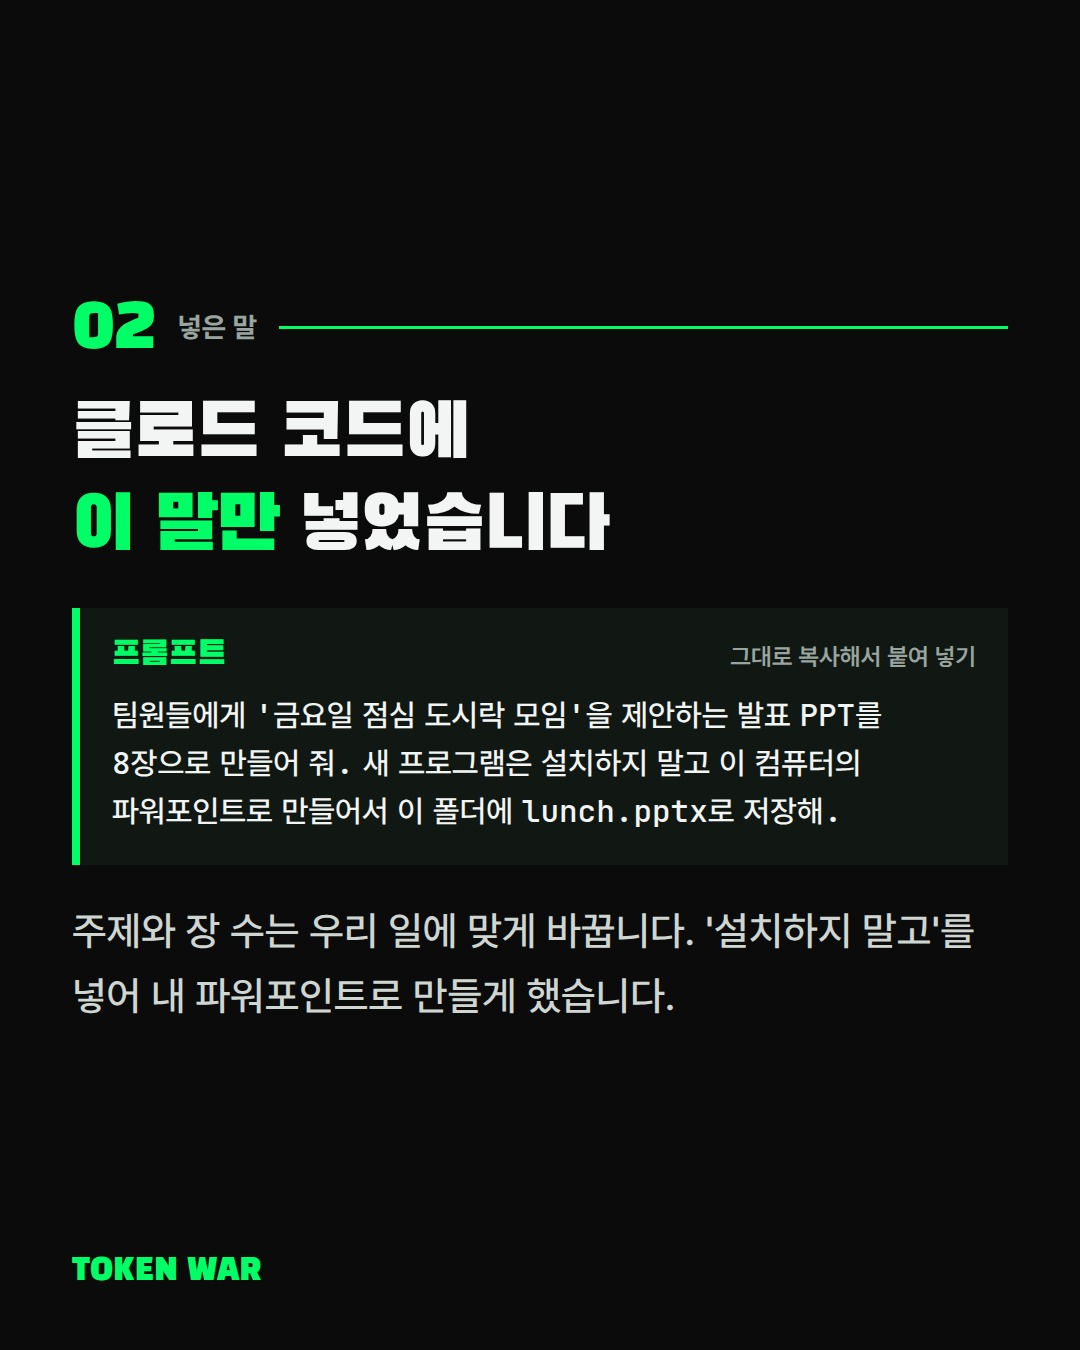
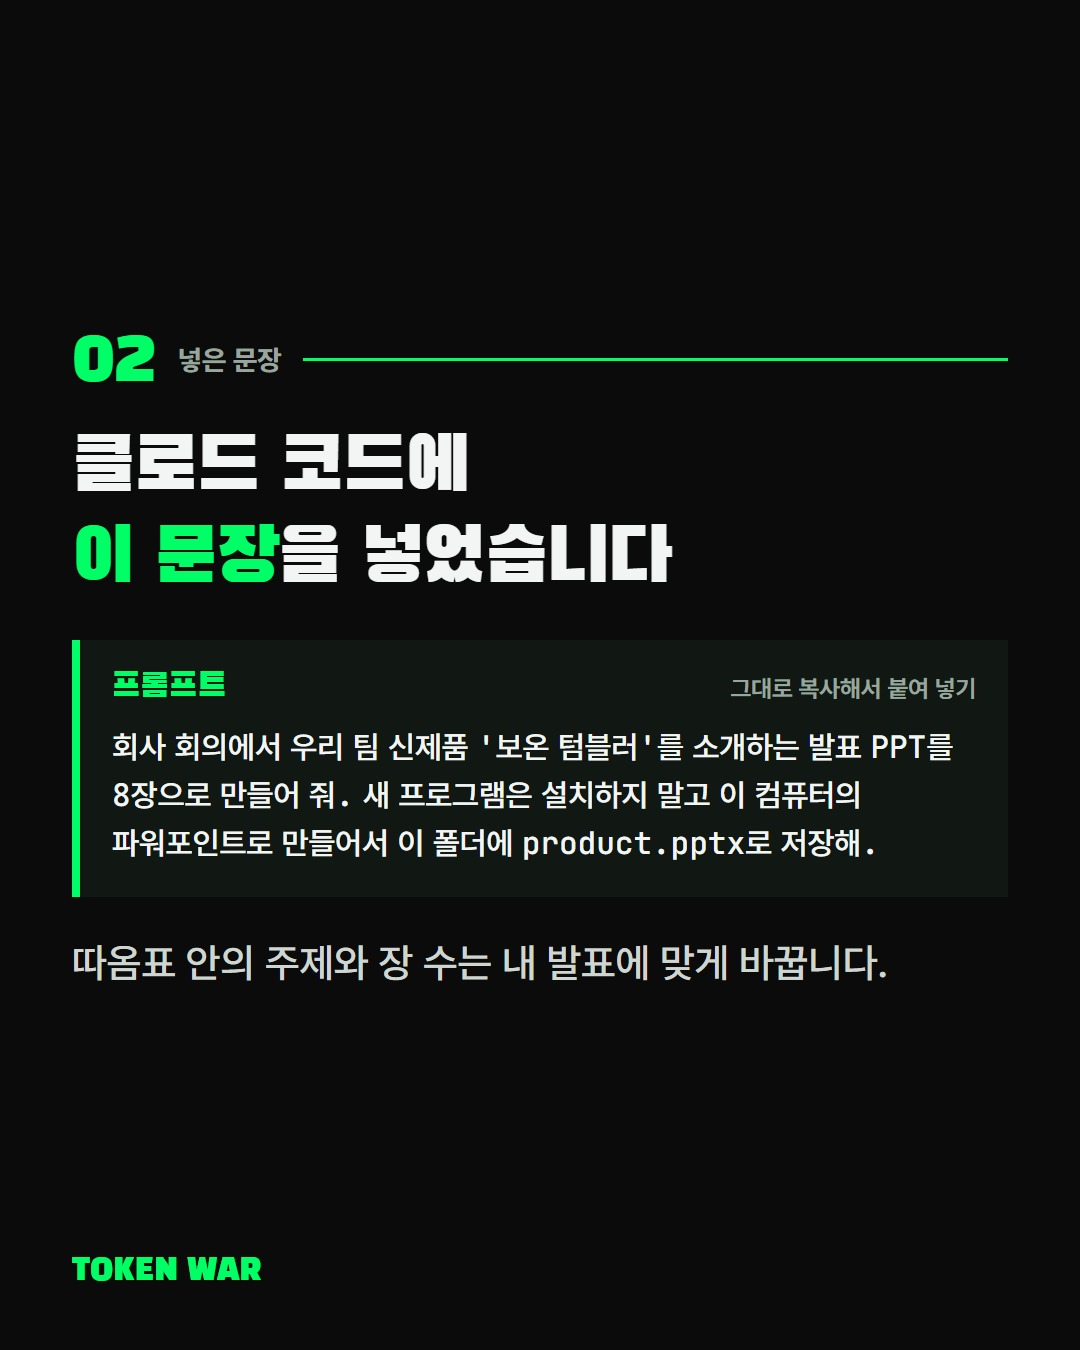
PPT 카드 다시 만듦(운영자 수정 요청): 새 주제 '보온 텀블러' 발표로 다시 실행, 3장 '이 문장을 넣었습니다', 주의할 점 전부 뺌, 캡션 이모지 뺌, 템플릿 섞기. 승인 전이라 게시 안 됨

Changed region(s): [[0.0611, 0.4667, 0.9167, 0.7467], [0.0611, 0.2178, 0.6417, 0.4667]]

diff --git a/docs/p/2026-11-16-carousel-claude-ppt/index.html b/docs/p/2026-11-16-carousel-claude-ppt/index.html
@@ -2,7 +2,7 @@
 <html lang="ko"><head><meta charset="utf-8">
 <meta name="viewport" content="width=device-width,initial-scale=1">
 <title>말 한마디로 클로드가 PPT를 만듭니다 · 토큰전쟁</title>
-<meta name="description" content="클로드 코드에 문장 하나를 넣으면 내 컴퓨터의 파워포인트로 발표 자료를 만들어 폴더에 저장합니다. 11월 16일에 윈도우 11과 파워포인트 16.0에서 직접 해 본 문장과 결과입니다.">
+<meta name="description" content="클로드 코드에 문장 하나를 넣으면 컴퓨터에 설치된 파워포인트로 발표 자료를 만들어 폴더에 저장합니다. 아래는 테스트에 사용한 문장과 결과입니다. 따옴표 안의 주제와 장 수를 바꿔 사용하십시오.">
 <meta name="robots" content="noindex">
 <link rel="preconnect" href="https://fonts.googleapis.com">
 <link href="https://fonts.googleapis.com/css2?family=Black+Han+Sans&display=swap" rel="stylesheet">
@@ -32,16 +32,31 @@ p{margin:6px 0;color:#CFD6D2}
 ul{padding-left:20px;color:#CFD6D2}
 .src{color:var(--mu);font-size:14px;border-top:2px solid #2A3530;padding-top:16px;margin-top:32px}
 .src a{color:var(--mu)}
+.kv{list-style:none;padding:0;margin:6px 0}
+.kv li{margin:4px 0}
+.kv b{color:var(--fg);margin-right:6px}
+.notice{border-left:4px solid var(--ac);padding:4px 0 4px 14px;margin:0 0 28px}
+.notice ul{margin:6px 0}
+.notice a{color:var(--ac)}
+.grp{margin:18px 0 0}
+.grp h4{margin:0 0 2px;font-size:17px;font-weight:700;color:var(--ac)}
+.grp .gs{font-size:13px;color:var(--mu);margin:2px 0 0}
+.grp .gs a{color:var(--mu)}
 .foot{margin-top:28px;font-weight:700}
 .foot a{color:var(--ac)}
 </style></head>
 <body><main>
 <div class="brand">TOKEN WAR</div>
 <h1>말 한마디로 클로드가<br><span class="hl">PPT를 만듭니다</span></h1>
-<p class="intro">클로드 코드에 문장 하나를 넣으면 내 컴퓨터의 파워포인트로 발표 자료를 만들어 폴더에 저장합니다. 11월 16일에 윈도우 11과 파워포인트 16.0에서 직접 해 본 문장과 결과입니다.</p>
-<section class="step"><span class="k">01</span><span class="lb">실제 결과</span><h2>6분 뒤 폴더에 PPT 파일이 생겼습니다</h2><p>&#x27;점심 도시락 모임&#x27; 발표 PPT 8장이 내 파워포인트 파일로 나왔습니다.</p></section><section class="step"><span class="k">02</span><span class="lb">넣은 말</span><h2>클로드 코드에 이 말만 넣었습니다</h2><div class="pr"><pre>팀원들에게 &#x27;금요일 점심 도시락 모임&#x27;을 제안하는 발표 PPT를 8장으로 만들어 줘. 새 프로그램은 설치하지 말고 이 컴퓨터의 파워포인트로 만들어서 이 폴더에 lunch.pptx로 저장해.</pre><button type="button" onclick="cp(this)">복사</button></div><p>주제와 장 수는 우리 일에 맞게 바꿉니다. &#x27;설치하지 말고&#x27;를 넣어 내 파워포인트로 만들게 했습니다.</p></section><section class="step"><span class="k">03</span><span class="lb">안쪽 장</span><h2>진행 순서와 테마까지 알아서 채웠습니다</h2><p>시간표, 기대 효과, 도시락 테마를 장마다 나눠 넣고, 다 만든 뒤 스스로 검사했습니다.</p></section><section class="step"><span class="k">04</span><span class="lb">주의할 점</span><h2>한글이 단어 중간에서 끊긴 곳이 있었습니다</h2><p>&#x27;피곤해요&#x27;가 &#x27;피&#x27;와 &#x27;곤해요&#x27;로 나뉘었습니다. 클로드도 두 번 고치려다 못 고쳤다고 알려 왔습니다.</p></section>
-<div class="rule"></div><h3>직접 해 본 결과</h3><p>6분쯤 뒤 lunch.pptx가 생겼고 8장이 들어 있었습니다. 표지, 제안 이유, 제안 개요, 진행 순서(12:00~12:55), 기대 효과, 주차별 도시락 테마, 참여 원칙, 다음 단계 순서였습니다. 새 프로그램은 설치하지 않았고, 다 만든 뒤 장을 그림으로 뽑아 스스로 검사했습니다. 다만 몇몇 글 상자에서 한글이 단어 중간에서 줄이 바뀌었고(&#x27;피 / 곤해요&#x27;, &#x27;누 / 구나&#x27;), 클로드는 두 번 고치려다 못 고쳤다고 알려 왔습니다. 넣어 준 날짜는 예시입니다.</p><div class="rule"></div><h3>주의할 점</h3><ul><li>만드는 데 6분쯤 걸렸고, 그동안 클로드 코드가 파워포인트를 직접 엽니다</li><li>파워포인트가 없는 컴퓨터나 맥에서는 확인하지 않았습니다</li><li>날짜와 이름 바꾸기: 넣어 준 일정은 예시라서 우리 팀 날짜로 고쳐야 합니다</li><li>끊긴 줄 직접 고치기: 장마다 훑어보고 글 상자를 넓히거나 줄을 바꿉니다</li><li>내 환경에서도 되는지 보기: 윈도우 11과 파워포인트에서만 해 봤으니 맥이나 다른 버전은 직접 확인합니다</li></ul>
-<div class="src">출처<ul><li><a href="https://docs.anthropic.com/en/docs/claude-code/overview" rel="noopener">클로드 코드 2.1.281로 직접 실행 (11월 16일, 윈도우 11, 파워포인트 16.0)</a></li><li><a href="https://commons.wikimedia.org/wiki/File:Woman_Stressed_At_Work.jpg" rel="noopener">표지 사진: Ciphr.com, CC BY 2.0, 위키미디어 공용</a></li></ul>2026.11.16 기준. 결과는 직접 해 본 것이고, AI 답은 그때그때 달라질 수 있습니다.</div>
+<p class="intro">클로드 코드에 문장 하나를 넣으면 컴퓨터에 설치된 파워포인트로 발표 자료를 만들어 폴더에 저장합니다. 아래는 테스트에 사용한 문장과 결과입니다. 따옴표 안의 주제와 장 수를 바꿔 사용하십시오.</p>
+
+<section class="step"><span class="k">01</span><span class="lb">사전 준비</span><h2>파워포인트가 설치된 컴퓨터를 준비합니다</h2><p>이 문장은 컴퓨터에 설치된 파워포인트로 파일을 만듭니다. 새 프로그램은 설치하지 않습니다. 윈도우 11과 파워포인트 16.0에서 테스트했습니다.</p></section><section class="step"><span class="k">02</span><span class="lb">사전 준비</span><h2>터미널부터 엽니다</h2><p>터미널은 마우스 대신 글자로 컴퓨터에 일을 시키는 창입니다. 커서만 깜빡이는 빈 창이 뜨면 맞게 연 것입니다. 이 페이지의 명령은 복사 버튼으로 복사해 그 창에 붙여 넣고 Enter를 누르면 됩니다.</p><div class="grp"><h4>윈도우</h4><p>시작 메뉴에서 PowerShell을 검색해 열거나, Win + X를 누르고 Windows PowerShell(또는 터미널)을 고릅니다. 줄 앞에 PS가 붙어 있으면 PowerShell입니다. 붙여 넣기는 Ctrl + V 또는 마우스 오른쪽 클릭입니다.</p><p class="gs">출처: <a href="https://code.claude.com/docs/en/terminal-guide" rel="noopener">Claude Code 공식 문서: 처음 쓰는 사람을 위한 터미널 안내</a></p></div><div class="grp"><h4>맥</h4><p>Cmd + Space로 Spotlight 검색을 열고 &#x27;터미널&#x27;(Terminal)을 입력한 뒤 Enter를 누릅니다. 붙여 넣기는 Cmd + V입니다.</p><p class="gs">출처: <a href="https://code.claude.com/docs/en/terminal-guide" rel="noopener">Claude Code 공식 문서: 터미널 안내</a></p></div><div class="grp"><h4>리눅스</h4><p>대부분의 배포판에서 Ctrl + Alt + T를 누르거나, 앱 메뉴에서 &#x27;터미널&#x27;을 찾습니다. 붙여 넣기는 Ctrl + Shift + V입니다.</p><p class="gs">출처: <a href="https://code.claude.com/docs/en/terminal-guide" rel="noopener">Claude Code 공식 문서: 터미널 안내</a></p></div></section><section class="step"><span class="k">03</span><span class="lb">사전 준비</span><h2>클로드 코드를 설치합니다</h2><p>공식 문서에 있는 설치 명령 그대로입니다. 받는 동안 진행 표시가 없으니 창을 닫지 말고 기다립니다. 끝나면 터미널을 새로 열고 확인 명령을 넣어 버전 숫자가 나오면 성공입니다. 처음 claude를 실행하면 브라우저가 열려 로그인합니다. 무료 요금제로는 쓸 수 없고 Pro 이상 요금제가 필요합니다.</p><div class="grp"><h4>윈도우 (PowerShell)</h4><div class="pr"><pre>irm https://claude.ai/install.ps1 | iex</pre><button type="button" onclick="cp(this)">복사</button></div><p class="gs">출처: <a href="https://code.claude.com/docs/en/setup" rel="noopener">Claude Code 공식 문서: 설치</a></p></div><div class="grp"><h4>윈도우 (CMD, 줄 앞에 PS가 없는 창)</h4><div class="pr"><pre>curl -fsSL https://claude.ai/install.cmd -o install.cmd &amp;&amp; install.cmd &amp;&amp; del install.cmd</pre><button type="button" onclick="cp(this)">복사</button></div><p class="gs">출처: <a href="https://code.claude.com/docs/en/setup" rel="noopener">Claude Code 공식 문서: 설치</a></p></div><div class="grp"><h4>맥 · 리눅스</h4><div class="pr"><pre>curl -fsSL https://claude.ai/install.sh | bash</pre><button type="button" onclick="cp(this)">복사</button></div><p class="gs">출처: <a href="https://code.claude.com/docs/en/setup" rel="noopener">Claude Code 공식 문서: 설치</a></p></div><div class="grp"><h4>설치 확인 (공통)</h4><p>2.1.281 (Claude Code)처럼 버전이 표시되면 정상입니다. claude를 찾을 수 없다고 나오면 터미널을 닫았다 다시 열어 확인합니다.</p><div class="pr"><pre>claude --version</pre><button type="button" onclick="cp(this)">복사</button></div><p class="gs">출처: <a href="https://code.claude.com/docs/en/setup" rel="noopener">Claude Code 공식 문서: 설치 확인</a></p></div></section><section class="step"><span class="k">04</span><span class="lb">클로드 켜기</span><h2>빈 폴더를 만들고 그 안에서 클로드를 켭니다</h2><p>클로드는 켠 폴더 안에 파일을 만듭니다. PPT 파일이 다른 파일과 섞이지 않도록 빈 폴더를 하나 만들어 그 안에서 켭니다. 터미널을 새로 열고 아래 세 줄을 한 줄씩 넣고 Enter를 누릅니다. 첫 줄은 ppt-test이라는 빈 폴더를 만들고, 둘째 줄(cd)은 그 폴더로 들어가고, 셋째 줄이 클로드를 켭니다. 켜진 창이 다음 단계의 프롬프트를 붙여 넣을 곳입니다. 파일을 만들거나 바꾸기 전에 허락을 물으면 내용을 확인한 뒤 Enter로 승인합니다.</p><div class="grp"><h4>윈도우 (PowerShell)</h4><p>터미널은 C:\Users\내 이름 폴더에서 시작하므로, 새 폴더는 C:\Users\내 이름\ppt-test에 생깁니다.</p><div class="pr"><pre>mkdir ppt-test
+cd ppt-test
+claude</pre><button type="button" onclick="cp(this)">복사</button></div><p class="gs">출처: <a href="https://code.claude.com/docs/en/setup" rel="noopener">Claude Code 공식 문서: 작업할 폴더에서 claude 실행</a></p></div><div class="grp"><h4>맥 · 리눅스</h4><p>터미널은 내 홈 폴더(맥은 /Users/내 이름, 리눅스는 /home/내 이름)에서 시작하므로, 새 폴더는 그 안에 ppt-test으로 생깁니다.</p><div class="pr"><pre>mkdir ppt-test
+cd ppt-test
+claude</pre><button type="button" onclick="cp(this)">복사</button></div><p class="gs">출처: <a href="https://code.claude.com/docs/en/setup" rel="noopener">Claude Code 공식 문서: 작업할 폴더에서 claude 실행</a></p></div><div class="grp"><h4>다음에 다시 켤 때</h4><p>터미널을 열고 cd ppt-test을 넣은 뒤 claude를 넣으면 같은 폴더에서 다시 켜집니다. 끌 때는 exit를 넣습니다.</p></div></section><section class="step"><span class="k">05</span><span class="lb">넣은 문장</span><h2>클로드 코드에 이 문장을 넣었습니다</h2><div class="pr"><pre>회사 회의에서 우리 팀 신제품 &#x27;보온 텀블러&#x27;를 소개하는 발표 PPT를 8장으로 만들어 줘. 새 프로그램은 설치하지 말고 이 컴퓨터의 파워포인트로 만들어서 이 폴더에 product.pptx로 저장해.</pre><button type="button" onclick="cp(this)">복사</button></div><p>따옴표 안의 주제와 장 수는 내 발표에 맞게 바꿉니다.</p><p>작업이 끝나면 클로드를 켠 ppt-test 폴더에 product.pptx가 생깁니다. 파일 탐색기(맥은 Finder)에서 그 폴더를 열고 파일을 두 번 클릭하면 파워포인트로 열립니다.</p></section>
+<div class="rule"></div><h3>테스트 환경 및 결과</h3><ul class="kv"><li><b>테스트 일자:</b> 2026년 11월 16일</li><li><b>테스트 환경:</b> Windows 11, 파워포인트 16.0, 클로드 코드 2.1.281</li><li><b>결과:</b> 2분 35초 뒤 폴더에 product.pptx가 저장되었습니다. 표지, 개발 배경, 제품 개요, 핵심 기능, 성능 비교 그래프, 타깃 고객, 출시 일정과 가격, 기대 효과 순서로 8장이 들어 있습니다. 새 프로그램은 설치하지 않았습니다.</li><li><b>미확인 범위:</b> 맥과 파워포인트가 없는 컴퓨터에서는 테스트하지 않았습니다.</li></ul>
+<div class="src">출처<ul><li><a href="https://docs.anthropic.com/en/docs/claude-code/overview" rel="noopener">클로드 코드 2.1.281로 실행 (11월 16일, 윈도우 11, 파워포인트 16.0)</a></li><li><a href="https://commons.wikimedia.org/wiki/File:Woman_Stressed_At_Work.jpg" rel="noopener">표지 사진: Ciphr.com, CC BY 2.0, 위키미디어 공용</a></li></ul>2026.11.16 기준. 테스트 결과는 작성 시점 기준이며, AI의 응답은 실행할 때마다 달라질 수 있습니다.</div>
 <p class="foot">매일 AI 소식은 <a href="https://www.instagram.com/tokenwar_ai/">@tokenwar_ai</a></p>
 </main>
 <script>

diff --git a/posts/queue/2026-11-16-carousel-claude-ppt/dm.md b/posts/queue/2026-11-16-carousel-claude-ppt/dm.md
@@ -17,9 +17,9 @@
 ## DM 문구
 
 ```
-클로드 코드로 PPT를 만든 문장이에요.
-'자료 보기'를 누르면 복사 버튼이 있는 페이지가 열려요. 주제와 장 수만 바꿔 써 보세요.
-한글이 단어 중간에서 끊긴 곳이 있을 수 있으니 발표 전에 꼭 훑어보세요.
+클로드 코드로 PPT를 만든 문장입니다.
+'자료 보기'를 누르면 복사 버튼이 있는 페이지가 열립니다.
+따옴표 안의 주제와 장 수를 내 발표에 맞게 바꿔 쓰십시오.
 ```
 
 ## 확인
